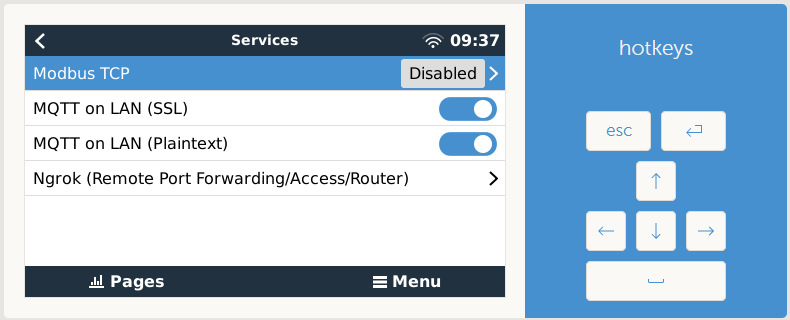
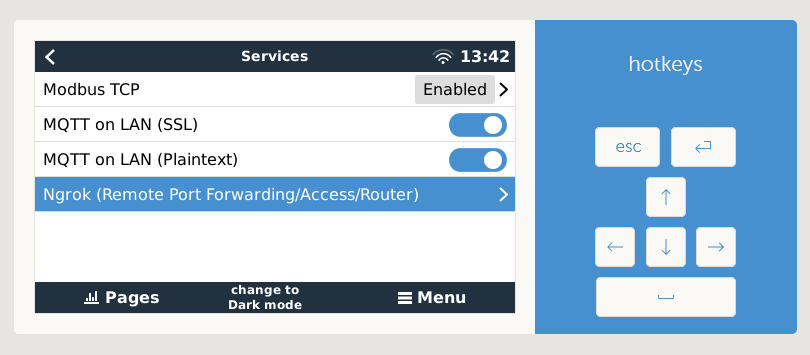
darkmode compatibility, easier token insert

diff --git a/FileSets/MbEditBoxAuthToken.qml b/FileSets/MbEditBoxAuthToken.qml
@@ -6,11 +6,15 @@ MbItem {
 	id: root
 	cornerMark: !readonly && !editMode
 	height: expanded.y + expanded.height + 1
-	//height: expanded.y + expanded.height + 37
+
+////// GuiMods — DarkMode
+	property VBusItem darkModeItem: VBusItem { bind: "com.victronenergy.settings/Settings/GuiMods/DarkMode" }
+	property bool darkMode: darkModeItem.valid && darkModeItem.value == 1
 
 	property alias maximumLength: ti.maximumLength
 	property variant tmpValue
-	property string matchString: "0123456789 abcdefghijklmnopqrstuvwxyzABCDEFGHIJKLMNOPQRSTUVWXYZ~!@#$%^&*()-_=+[]{}\;:|/.,<>?"
+////// AuthToken
+	property string matchString: "0123456789abcdefghijklmnopqrstuvwxyzABCDEFGHIJKLMNOPQRSTUVWXYZ~!@#$%^&*()-_=+[]{}\;:|/.,<>?"
 	property string ignoreChars
 	property bool readonly: !userHasWriteAccess
 	property bool overwriteMode: false
@@ -25,8 +29,10 @@ MbItem {
 	property alias upDownText: buttonExplanation.upDownText
 	property alias centerText: buttonExplanation.centerText
 	property alias unit: _unitText.text
-	property alias wrapMode: ti.wrapMode
+////// AuthToken
 	property string backgroundColor: greytag.color
+////// AuthToken
+	property int customFontPixelSize: 15
 
 	// internal
 	property string _editText
@@ -235,19 +241,22 @@ MbItem {
 		id: inputItem
 
 		property real cursorWidth: 8.0
-		height: defaultHeight + 11
+		height: defaultHeight
 		anchors {
 			right: parent.right
 			top: parent.top
-			topMargin: 9
+////// AuthToken
+			topMargin: 26
 		}
 
 		MbBackgroundRect {
 			id: greytag
-			color: editMode ? "#fff": backgroundColor
+////// GuiMods — DarkMode
+			color: editMode ? ( !darkMode ? "#fff": "#747474" ) : backgroundColor
 			width: ti.width + 2 * style.marginDefault
 			height: ti.height + 6
-			border.color: "#ddd"
+////// GuiMods — DarkMode
+			border.color: !darkMode ? "#ddd" : "#4b4b4b"
 			border.width: editMode ? 1 : 0
 			anchors.centerIn: ti
 		}
@@ -262,7 +271,8 @@ MbItem {
 
 			Text {
 				id: _unitText
-				font.pixelSize: root.style.fontPixelSize
+////// AuthToken
+				font.pixelSize: customFontPixelSize
 				anchors.verticalCenter: parent.verticalCenter
 			}
 		}
@@ -276,19 +286,22 @@ MbItem {
 				top: parent.top
 				topMargin: (defaultHeight - height) / 2
 			}
-			width: 320
-			height: 38
+////// AuthToken
+			width: 450
 
+////// GuiMods — DarkMode
+			color: !darkMode ? "#000000" : "#fdfdfd"
 
 			text: editMode ? _editText : item.text
 			// When editing the it is nice to have a fix with font, so when changing
 			// digits the text does change in length all the time. However this fonts
 			// has an zero with a dot in it, with looks inconsitent with the regular
 			// font. So only use the fixed with font when editing.
-			font.family: editMode ? "DejaVu Sans Mono" : root.style.fontFamily
-			font.pixelSize: root.style.fontPixelSize
-
-			property int maximumLength: 20
+////// AuthToken
+			font.family: "DejaVu Sans Mono"
+			font.pixelSize: customFontPixelSize
+////// AuthToken
+			property int maximumLength: root.maximumLength
 			property int cursorPosition
 
 			Item {

diff --git a/FileSets/PageSettingsServicesNgrok.qml b/FileSets/PageSettingsServicesNgrok.qml
@@ -6,6 +6,10 @@ MbPage {
 	id: root
 	title: qsTr("Ngrok")
 
+////// GuiMods — DarkMode
+	property VBusItem darkModeItem: VBusItem { bind: "com.victronenergy.settings/Settings/GuiMods/DarkMode" }
+	property bool darkMode: darkModeItem.valid && darkModeItem.value == 1
+
 	property VBusItem authtoken: VBusItem { bind: "com.victronenergy.settings/Settings/Services/Ngrok/AuthToken" }
 
 	model: VisibleItemModel {
@@ -21,10 +25,10 @@ MbPage {
 			description: qsTr("Your Authtoken")
 			readonly: ngrok.checked
 			item.bind: "com.victronenergy.settings/Settings/Services/Ngrok/AuthToken"
-			maximumLength: 64
+			maximumLength: 50
 			enableSpaceBar: false
-			backgroundColor: authtoken.value == "" ? "#ff0000" : "#ddd"
-			wrapMode: Text.Wrap
+			backgroundColor: authtoken.value == "" ? "#ff0000" : (!darkMode ? "#ddd" : "#4b4b4b")
+			//wrapMode: Text.Wrap
 		}
 
 		MbItemText {

diff --git a/README.md b/README.md
@@ -15,15 +15,11 @@ The driver is using ngrok as application to achieve that. Ngrok is like a router
 
 In order to use ngrok you have to [create a free account](https://dashboard.ngrok.com/signup) first.
 
-![venus-os](./screenshots/venus-os-services.png)
-
-![venus-os](./screenshots/venus-os-ngrok.png)
-
 ### Installation
 
 ⚠ The [Setup Helper/Packet Manager](https://github.com/kwindrem/SetupHelper) is required for all installation methods.
 
-The driver can be installed via the [Setup Helper/Packet Manager](https://github.com/kwindrem/SetupHelper), by uploading it via SFTP to the directory `/data/venus-os_ngrok` and then running the `setup` file or by running this commands:
+The driver can directly be installed via remote console/GIU with the [Setup Helper/Packet Manager](https://github.com/kwindrem/SetupHelper) or by uploading it via SFTP to the directory `/data/venus-os_ngrok` and then running the `setup` file or by running this commands:
 
 ```bash
 wget -O /tmp/venus-os_ngrok.zip https://github.com/mr-manuel/venus-os_ngrok/archive/refs/tags/latest.zip
@@ -36,6 +32,15 @@ bash /data/venus-os_ngrok/setup
 ```
 
 The configuration is done via remote console/GUI.
+
+<details><summary>Show screenshots</summary>
+
+![Ngrok - Services](/screenshots/venus-os-services.png)
+![Ngrok - Page](/screenshots/venus-os-ngrok-1.png)
+![Ngrok - Page](/screenshots/venus-os-ngrok-2.png)
+
+</details>
+
 
 ### Config
 

diff --git a/CHANGELOG.md b/CHANGELOG.md
@@ -1,5 +1,9 @@
 # Changelog
 
+## v0.0.3
+* Added: Dark Mode compatibility
+* Changed: Made token insertion easier
+
 ## v0.0.2
 * Changed: Fixed authtoken loss after Venus OS update
 
